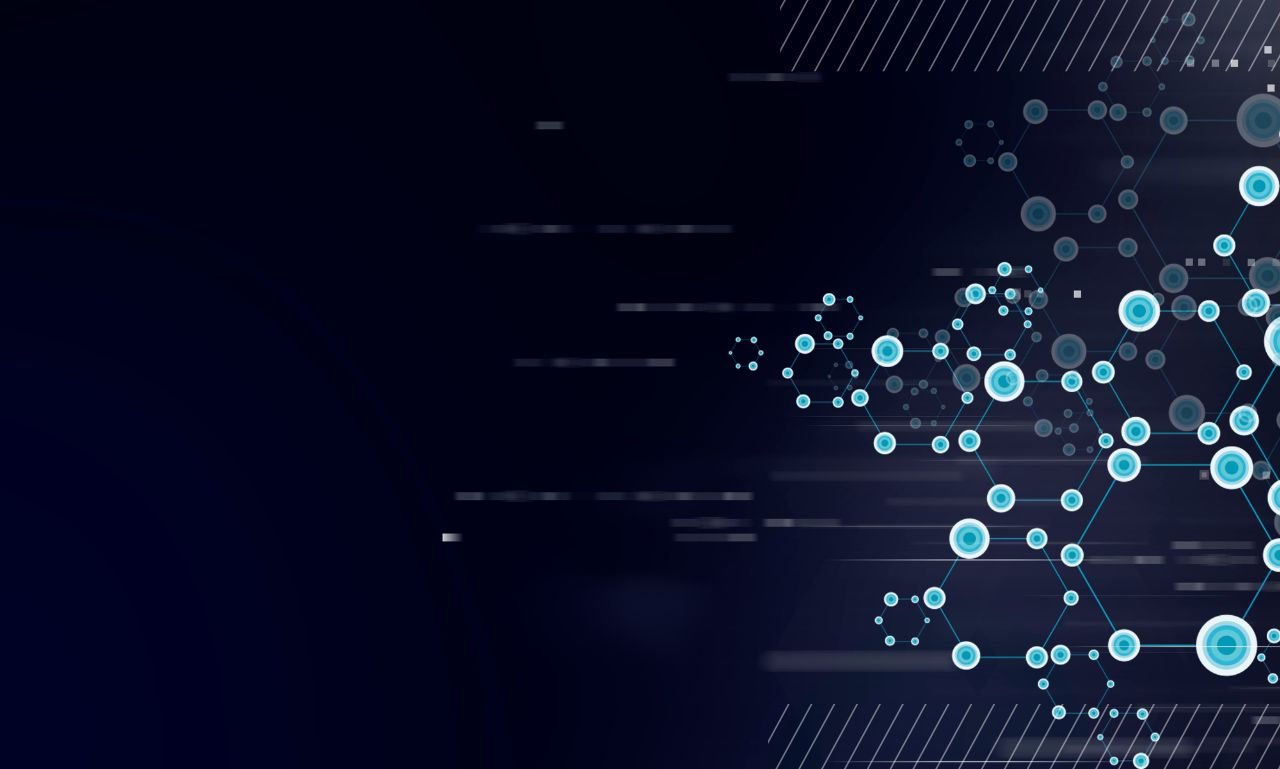
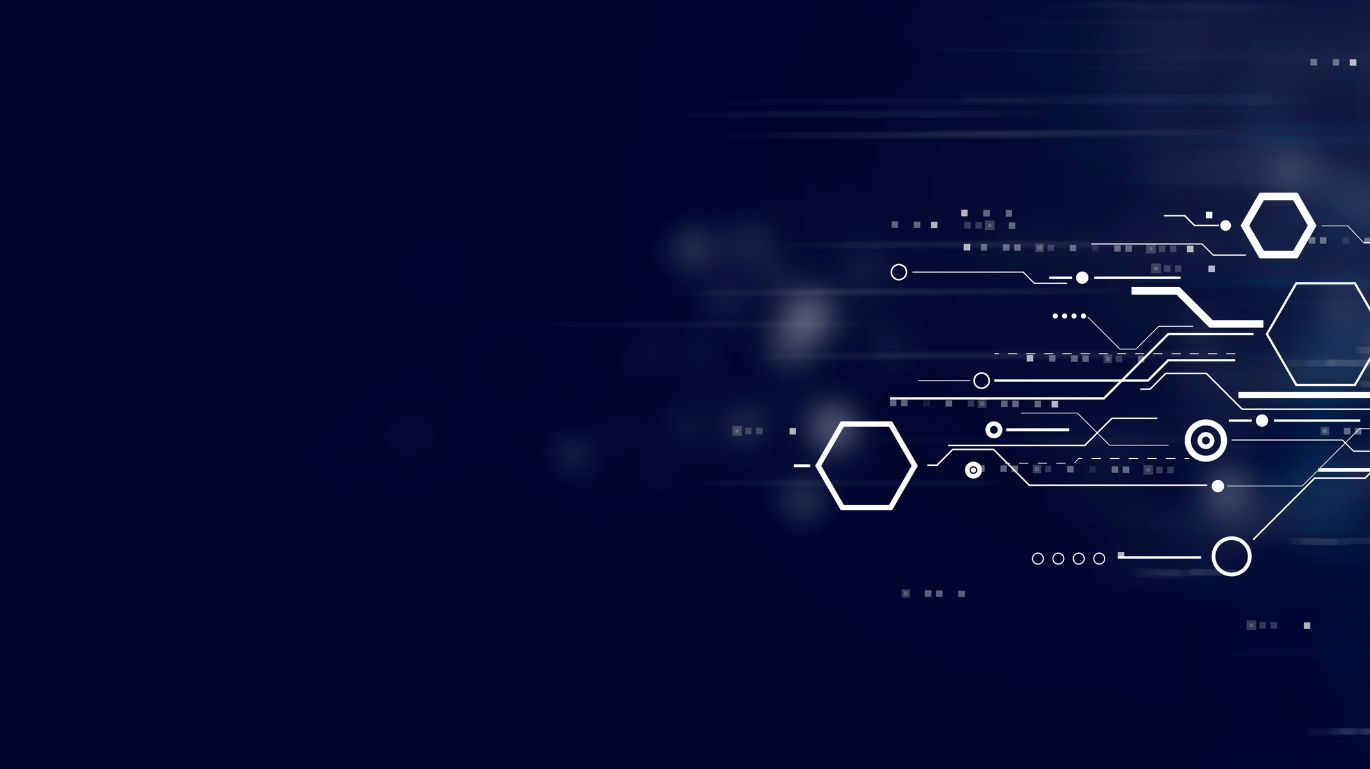
update colors and pictures

diff --git a/src/style.css b/src/style.css
@@ -1,17 +1,17 @@
 html {
   --section-background-color: linear-gradient(
     to bottom left,
-    rgba(17, 16, 16, 0.582),
-    rgba(12, 8, 24, 0.904)
+    rgba(17, 16, 16, 0.082),
+    rgba(12, 8, 24, 0.004)
   );
 
   --image-gradient: linear-gradient(
     to bottom left,
-    rgba(17, 16, 16, 0.678),
-    rgba(12, 10, 22, 0.863)
+    rgba(17, 16, 16, 0.078),
+    rgba(12, 10, 22, 0.063)
   );
 
-  --imp-text-color: #c770f0;
+  --imp-text-color: #87bccb;
 }
 
 .purple {
@@ -62,13 +62,13 @@ button:focus {
 
 /* Handle */
 ::-webkit-scrollbar-thumb {
-  background: rgba(178, 121, 216, 0.959);
+  background: rgba(115, 161, 175, 0.959);
   border-radius: 12px;
 }
 
 /* Handle on hover */
 ::-webkit-scrollbar-thumb:hover {
-  background: rgba(222, 130, 235, 0.911);
+  background:rgba(115, 161, 175, 0.959);
   border-radius: 12px;
 }
 
@@ -97,7 +97,7 @@ button:focus {
 
 .navbar-toggler span {
   display: block !important;
-  background-color: #be50f4 !important;
+  background-color: #87bccb !important;
   height: 4px !important;
   width: 27px !important;
   margin-top: 5px !important;
@@ -194,7 +194,7 @@ button:focus {
   height: 5px;
   width: 0;
   border-radius: 16px;
-  background: #c95bf5;
+  background: #87bccb;
   bottom: 1px;
   left: 0;
   z-index: -1;
@@ -281,17 +281,17 @@ button:focus {
 }
 
 .main-name {
-  color: #cd5ff8;
+  color: #87bccb;
 }
 
 .Typewriter__wrapper {
   font-size: 2.2em !important;
-  color: #be6adf !important;
+  color: #87bccb !important;
   font-weight: 600 !important;
 }
 .Typewriter__cursor {
   font-size: 2.4em !important;
-  color: #b562d6 !important;
+  color: #87bccb !important;
 }
 
 @media (max-width: 767px) {
@@ -371,7 +371,7 @@ button:focus {
   width: 100%;
   height: 100%;
   border-radius: 50%;
-  background: #68187a;
+  background: #87bccb;
   transition: 0.5s;
   transform: scale(0.9);
   z-index: -1;
@@ -379,13 +379,13 @@ button:focus {
 
 .home-social-icons:hover::before {
   transform: scale(1.1);
-  box-shadow: 0 0 15px #801f95;
+  box-shadow: 0 0 15px #87bccb;
 }
 
 .home-social-icons:hover {
-  color: #87209e;
-  box-shadow: 0 0 5px #87209e;
-  text-shadow: 0 0 2px #87209e;
+  color: #87bccb;
+  box-shadow: 0 0 5px #87bccb;
+  text-shadow: 0 0 2px #87bccb;
 }
 
 .social-icons {
@@ -395,7 +395,7 @@ button:focus {
 }
 
 .icon-colour {
-  color: #700c86 !important;
+  color: #375b91 !important;
 }
 
 /* --------- */
@@ -439,7 +439,7 @@ button:focus {
 }
 
 .blockquote-footer {
-  color: #a588c0 !important;
+  color: #87bccb !important;
 }
 /* --------- */
 /* Projects */
@@ -460,7 +460,7 @@ button:focus {
 }
 
 .project-card-view {
-  box-shadow: 0 4px 5px 3px rgba(119, 53, 136, 0.459) !important;
+  box-shadow: 0 4px 5px 3px rgba(32, 92, 148, 0.616) !important;
   color: white !important;
   background-color: transparent !important;
   opacity: 0.9 !important;
@@ -470,7 +470,7 @@ button:focus {
 .project-card-view:hover {
   transform: scale(1.02) !important;
   overflow: hidden !important;
-  box-shadow: 0 4px 4px 5px rgba(129, 72, 144, 0.561) !important;
+  box-shadow: 0 4px 4px 5px rgba(72, 109, 144, 0.561) !important;
 }
 
 .blog-card {
@@ -501,7 +501,7 @@ button:focus {
 .blog-card-view:hover {
   transform: scale(1.02) !important;
   overflow: hidden !important;
-  box-shadow: 0 3px 3px 5px rgba(155, 88, 173, 0.65) !important;
+  box-shadow: 0 3px 3px 5px rgba(88, 149, 173, 0.65) !important;
 }
 
 .card-img-top {
@@ -518,14 +518,14 @@ button:focus {
 
 .btn-primary {
   color: #fff !important;
-  background-color: #623686 !important;
-  border-color: #623686 !important;
+  background-color: #366d86 !important;
+  border-color: #366f86 !important;
 }
 
 .btn-primary:hover {
   color: #fff !important;
-  background-color: #6d20c5d7 !important;
-  border-color: #6d20c5d7 !important;
+  background-color: #2068c5d7 !important;
+  border-color: #206dc5d7 !important;
 }
 .btn:focus {
   outline: none !important;
@@ -555,7 +555,7 @@ button:focus {
   margin: 15px !important;
   padding: 10px !important;
   opacity: 0.93 !important;
-  border: 1.7px solid rgba(200, 137, 230, 0.637) !important;
+  border: 1.7px solid #87bccb !important;
   vertical-align: middle !important;
   text-align: center !important;
   border-radius: 5px !important;
@@ -574,7 +574,7 @@ button:focus {
 .tech-icons:hover {
   transform: scale(1.05) !important;
   overflow: hidden !important;
-  border: 2.2px solid rgba(197, 115, 230, 0.883) !important;
+  border: 2.2px solid #87bccb !important;
 }
 .tech-icon-images {
   padding: 20px !important;
@@ -645,7 +645,7 @@ button:focus {
 .resume .resume-item {
   padding: 0 0 10px 25px;
   margin-top: -2px;
-  border-left: 2px solid #8a49a8;
+  border-left: 2px solid #87bccb;
   position: relative;
 }
 
@@ -682,7 +682,7 @@ button:focus {
   left: -9px;
   top: 0;
   background: #fff;
-  border: 2px solid #8a49a8;
+  border: 2px solid #87bccb;
 }
 
 .like-item {
@@ -692,8 +692,8 @@ button:focus {
 }
 
 .like-btn {
-  background-color: #934cce5e !important;
-  border-color: #934cce5e !important;
+  background-color: #369dd880 !important;
+  border-color: #5893cad5 !important;
   padding: 0.25rem 0.98rem !important;
   border-radius: 5px !important;
   line-height: 1.4 !important;
@@ -702,8 +702,8 @@ button:focus {
 
 .like-btn:hover {
   transform: translateY(-2px) !important;
-  background-color: #a24dd386 !important;
-  border-color: #a24dd386 !important;
+  background-color: #4d97d386 !important;
+  border-color: #4dc3d3b9 !important;
 }
 
 .animate-like {
@@ -727,7 +727,7 @@ button:focus {
 
 .fork-btn-inner {
   line-height: 1.4em !important;
-  background-color: #934cce5e !important;
+  background-color: #4c55ce81 !important;
   padding: 0.25rem 1.1rem !important;
   vertical-align: middle !important;
   text-align: center !important;
@@ -735,8 +735,8 @@ button:focus {
 
 .fork-btn-inner:hover {
   transform: translateY(-2px) !important;
-  background-color: #a24dd386 !important;
-  border-color: #a24dd386 !important;
+  background-color: #4da2d386 !important;
+  border-color: #4db4d3b2 !important;
 }
 .fork-btn-inner::after {
   display: none !important;

diff --git a/src/components/About/About.js b/src/components/About/About.js
@@ -13,7 +13,7 @@ function About() {
       <Particle />
       <Container>
         <Row style={{ justifyContent: "center", padding: "10px" }}>
-          <Col
+          <div
             md={7}
             style={{
               justifyContent: "center",
@@ -25,7 +25,7 @@ function About() {
               Know Who <strong className="purple">I'M</strong>
             </h1>
             <Aboutcard />
-          </Col>
+          </div>
           {/* <Col
             md={5}
             style={{ paddingTop: "120px", paddingBottom: "50px" }}

diff --git a/src/components/About/AboutCard.js b/src/components/About/AboutCard.js
@@ -6,8 +6,8 @@ function AboutCard() {
   return (
     <Card className="quote-card-view">
       <Card.Body>
-        <blockquote className="blockquote mb-0">
-          <p style={{ textAlign: "justify" }}>
+        <blockquote className="blockquote">
+          <p style={{ textAlign: "justify"}}>
             Hi Everyone, I am <span className="purple">Nimarta </span>
             from <span className="purple"> Sindh, Pakistan.</span>
             <br />I'm have done my Bachelors in Computer Science from Sukkur IBA University.

diff --git a/src/index.css b/src/index.css
@@ -4,5 +4,5 @@ body {
   font-family: "Raleway", serif !important;
   -webkit-font-smoothing: antialiased;
   -moz-osx-font-smoothing: grayscale;
-  background-image: linear-gradient(to left, #181f52, rgb(6, 22, 32));
+  background-image: linear-gradient(to left, #04062c, #01052d);
 }

diff --git a/src/components/Home/Home2.js b/src/components/Home/Home2.js
@@ -1,6 +1,6 @@
 import React from "react";
 import { Container, Row, Col } from "react-bootstrap";
-import myImg from "../../Assets/avatar.svg";
+import myImg from "../../Assets/avatar.png";
 import Tilt from "react-parallax-tilt";
 import {
   AiFillGithub,

diff --git a/src/components/About/Github.js b/src/components/About/Github.js
@@ -12,7 +12,7 @@ function Github() {
         username="nimarta-devi"
         blockSize={15}
         blockMargin={5}
-        color="#c084f5"
+        color="#87bccb"
         fontSize={16}
       />
     </Row>
